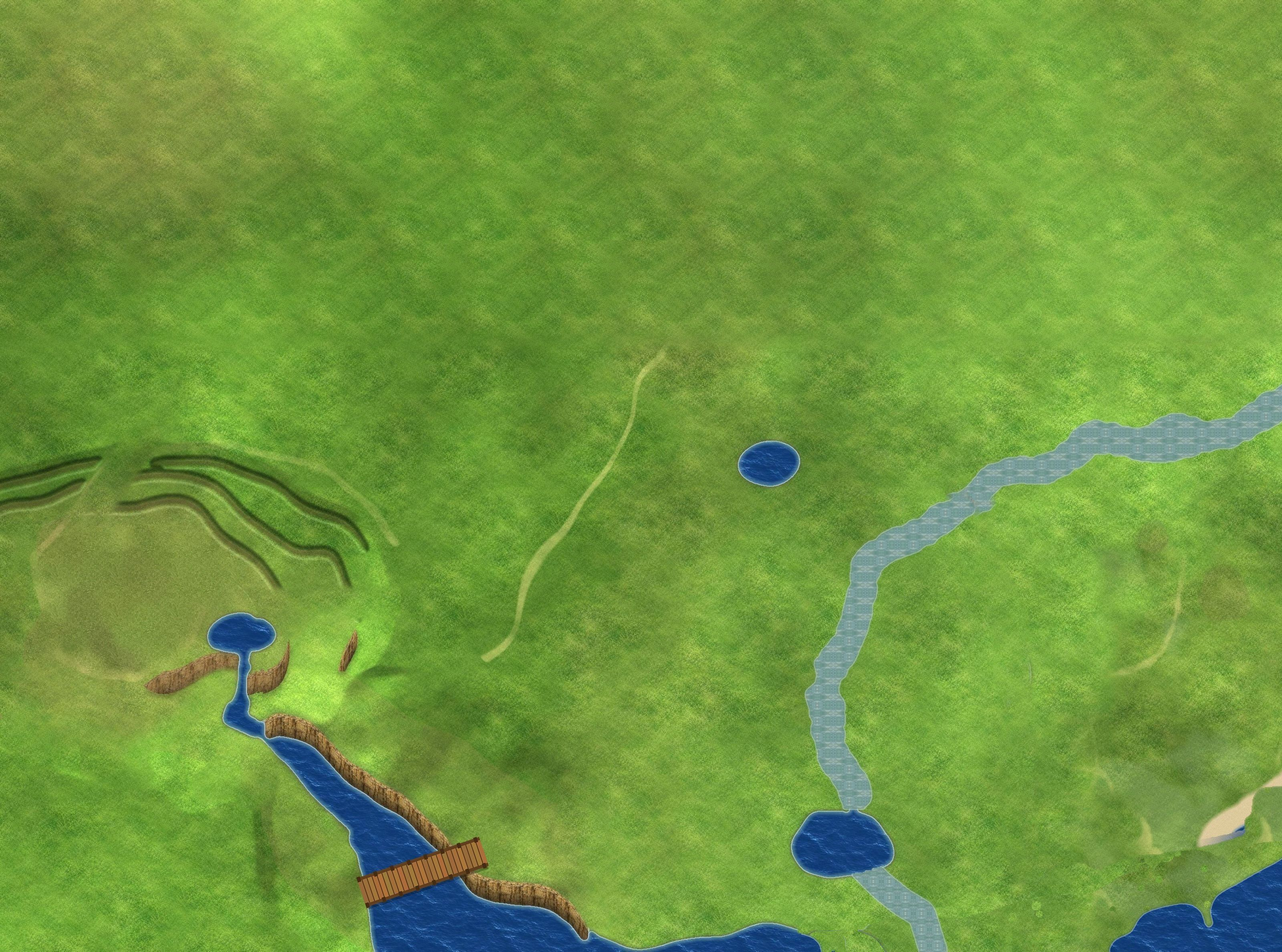
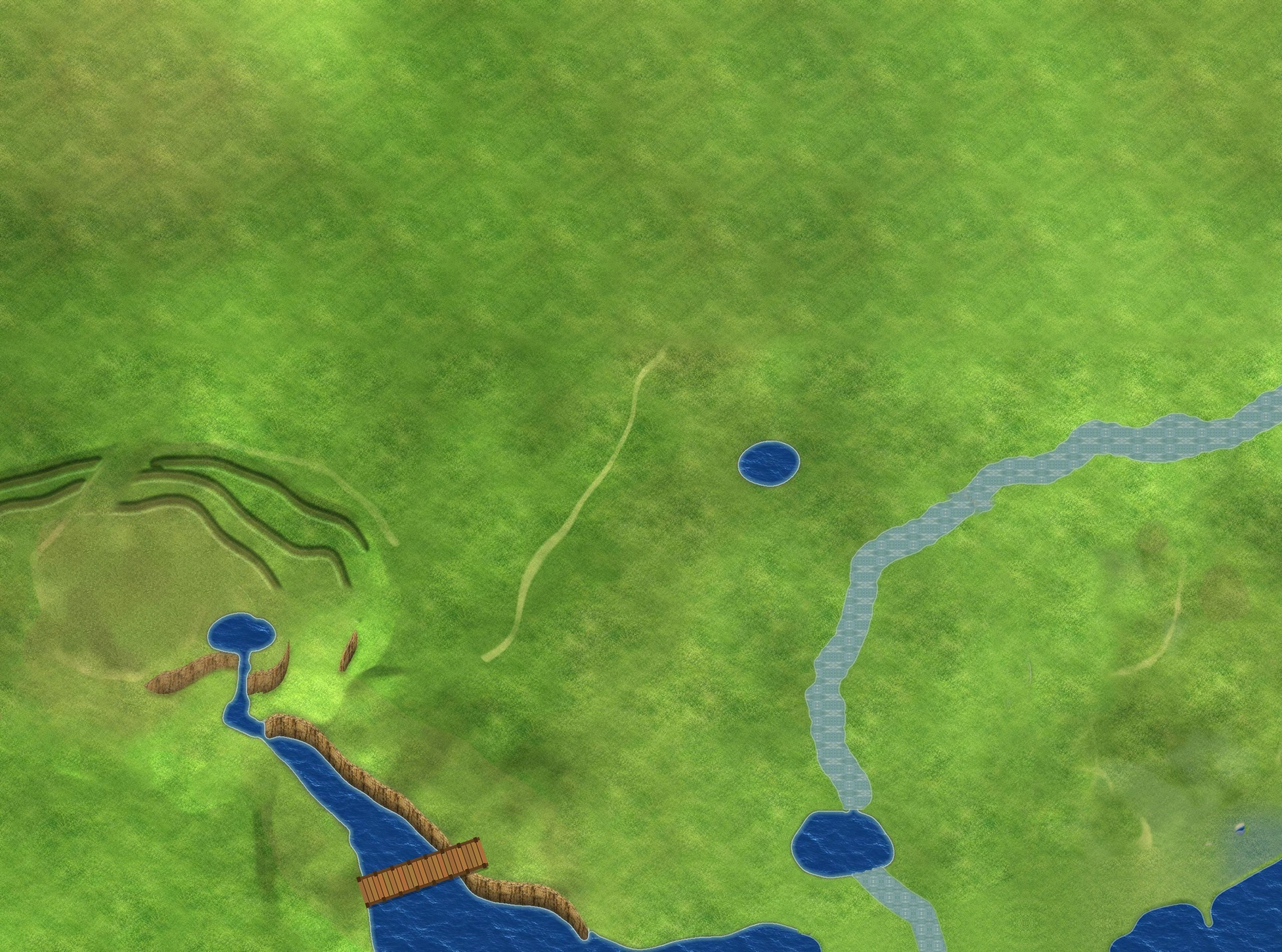
扩出来的海岸草地重画：去掉方块接缝、营地痕迹、旧沙滩和水迹 Co-Authored-By: Claude Opus 5.5 <noreply@anthropic.com> Claude-Session: https://claude.ai/code/session_011WrGna6yNwTfpmyp4CxMHs

Changed region(s): [[0.625, 0.8098, 1.0, 1.0]]

diff --git a/tools/repaint_newland.py b/tools/repaint_newland.py
@@ -1,0 +1,47 @@
+"""一次性：把扩海岸新增的草地重画（低频颜色从周围草地延伸 + 一块干净草地的细节纹理平铺），去掉方块接缝和营地痕迹。"""
+import numpy as np,cv2,json
+from PIL import Image
+R='/home/claude/sanguoxingcunzhe';M=R+'/assets/map/';PRE='/tmp/claude-0/s/pre/'
+J=json.load(open(R+'/data/world.json'));HD=J['HD'];T=J['tiles']['T'];W,H=J['WW'],J['WH']
+def load(d):
+    f=np.zeros((H*HD,W*HD,3),np.uint8)
+    for t in J['tiles']['list']:
+        im=np.array(Image.open(d+t+'.jpg').convert('RGB'));tx,ty=int(t[1]),int(t[2]);f[ty*T*HD:ty*T*HD+im.shape[0],tx*T*HD:tx*T*HD+im.shape[1]]=im
+    return f
+cur=load(M);pre=load(PRE)
+def seaof(full):f=full[::HD,::HD].astype(int);return (f[...,2]>f[...,1]+40)&(f[...,0]<90)
+b=np.array(Image.open(M+'coll.png').convert('RGB'))[...,0]
+psea=seaof(pre);csea=seaof(cur)
+reg=np.zeros((H,W),bool);reg[:,1250:]=True;reg[900:,950:]=True
+dpre=cv2.distanceTransform((~psea).astype(np.uint8),cv2.DIST_L2,5)
+dcur=cv2.distanceTransform((~csea).astype(np.uint8),cv2.DIST_L2,5)
+area=reg&(b==0)&(psea|(dpre<16))&(dcur>7)
+# 也把之前拼接碰到的地方（与老图差异大的陆地）一起重画
+diff=np.abs(cur[::HD,::HD].astype(int)-pre[::HD,::HD].astype(int)).sum(-1)>40
+area|=reg&(b==0)&diff&(dcur>7)&~psea&(dpre<200)
+cf0=cur[::HD,::HD].astype(int);odd=((cf0[...,0]>cf0[...,1]-5)|(cf0[...,2]>cf0[...,1]))&reg&(b==0)&(dcur>7)
+area|=cv2.dilate(odd.astype(np.uint8),np.ones((7,7),np.uint8))>0
+area=cv2.morphologyEx(area.astype(np.uint8),cv2.MORPH_CLOSE,np.ones((7,7),np.uint8))>0
+area&=(b==0)&(dcur>7)
+up=lambda m:cv2.resize(m.astype(np.uint8),(W*HD,H*HD),interpolation=cv2.INTER_NEAREST)>0
+A=up(area)
+# 低频：缩小 8 倍后修补
+s=8;small=cv2.resize(cur,(W*HD//s,H*HD//s),interpolation=cv2.INTER_AREA)
+cf=cur[::HD,::HD].astype(int);sand=(cf[...,0]>cf[...,1]-5)
+unk=cv2.resize((area|csea|(b==2)|(b==1)|sand|odd).astype(np.uint8),(W*HD//s,H*HD//s),interpolation=cv2.INTER_NEAREST)
+unk=cv2.dilate(unk,np.ones((3,3),np.uint8))
+low=cv2.inpaint(small[...,::-1],unk*255,6,cv2.INPAINT_TELEA)[...,::-1]
+low=cv2.GaussianBlur(low.astype(np.float32),(0,0),3)
+low=cv2.resize(low,(W*HD,H*HD),interpolation=cv2.INTER_CUBIC)
+# 细节：干净草地块去掉低频后镜像平铺
+P=pre[150*HD:150*HD+256,900*HD:900*HD+256].astype(np.float32)
+det=P-cv2.GaussianBlur(P,(0,0),12)
+det=np.concatenate([det,det[:,::-1]],1);det=np.concatenate([det,det[::-1]],0)
+tile=np.tile(det,(H*HD//det.shape[0]+1,W*HD//det.shape[1]+1,1))[:H*HD,:W*HD]
+g=low+tile
+a=cv2.GaussianBlur(A.astype(np.float32),(0,0),3)[...,None]
+out=np.clip(cur*(1-a)+g*a,0,255).astype(np.uint8)
+for t in J['tiles']['list']:
+    tx,ty=int(t[1]),int(t[2]);Image.fromarray(out[ty*T*HD:(ty+1)*T*HD,tx*T*HD:(tx+1)*T*HD]).save(M+t+'.jpg',quality=82,optimize=True)
+J['ver']+=1;json.dump(J,open(R+'/data/world.json','w'),ensure_ascii=False,separators=(',',':'))
+Image.fromarray(out[:, 950*HD:][::2,::2]).save('/tmp/claude-0/s/rp.png');print(area.sum())
